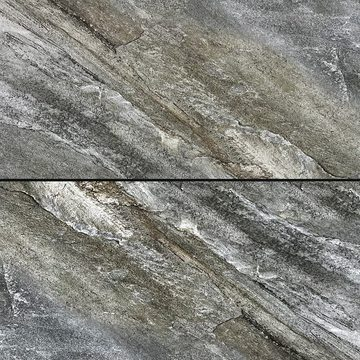
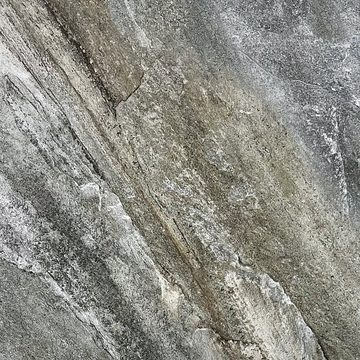
Show kotto design 7 as a single tile
Claude-Session: https://claude.ai/code/session_01C4iQ3C6y4nUemSzJUgiqzV

diff --git a/src/site-data.ts b/src/site-data.ts
@@ -325,7 +325,7 @@ export const designSets: DesignSet[] = [
     label: "كوطو ليبي 60×60",
     shape: "square",
     note: "سمك 14 ملم، للأرضيات والساحات الخارجية.",
-    looks: ["بيج بنقشة ترافنتينو", "رمادي حجري بعروق مائلة", "رمادي فاتح حجري", "رمادي بحصى صغير", "رمادي بحجارة كبيرة", "بيج تيرازو بحبيبات بنية", "رمادي داكن حجري بعروق مائلة (قطعتان من نفس اللون)", "بيج رمادي حجري بعروق بنية", "رمادي فاتح منقّط", "رمادي غرانيتي بخطوط حجرية مائلة", "رمادي إسمنتي ببقع فاتحة", "رمادي إسمنتي داكن", "تيرازو رمادي بحجارة رمادية وسوداء"],
+    looks: ["بيج بنقشة ترافنتينو", "رمادي حجري بعروق مائلة", "رمادي فاتح حجري", "رمادي بحصى صغير", "رمادي بحجارة كبيرة", "بيج تيرازو بحبيبات بنية", "رمادي داكن حجري بعروق مائلة", "بيج رمادي حجري بعروق بنية", "رمادي فاتح منقّط", "رمادي غرانيتي بخطوط حجرية مائلة", "رمادي إسمنتي ببقع فاتحة", "رمادي إسمنتي داكن", "تيرازو رمادي بحجارة رمادية وسوداء"],
     codes: ["059", undefined, undefined, undefined, undefined, "063", undefined, "053", "017", "038", "024", "016", "062"],
   },
   {
